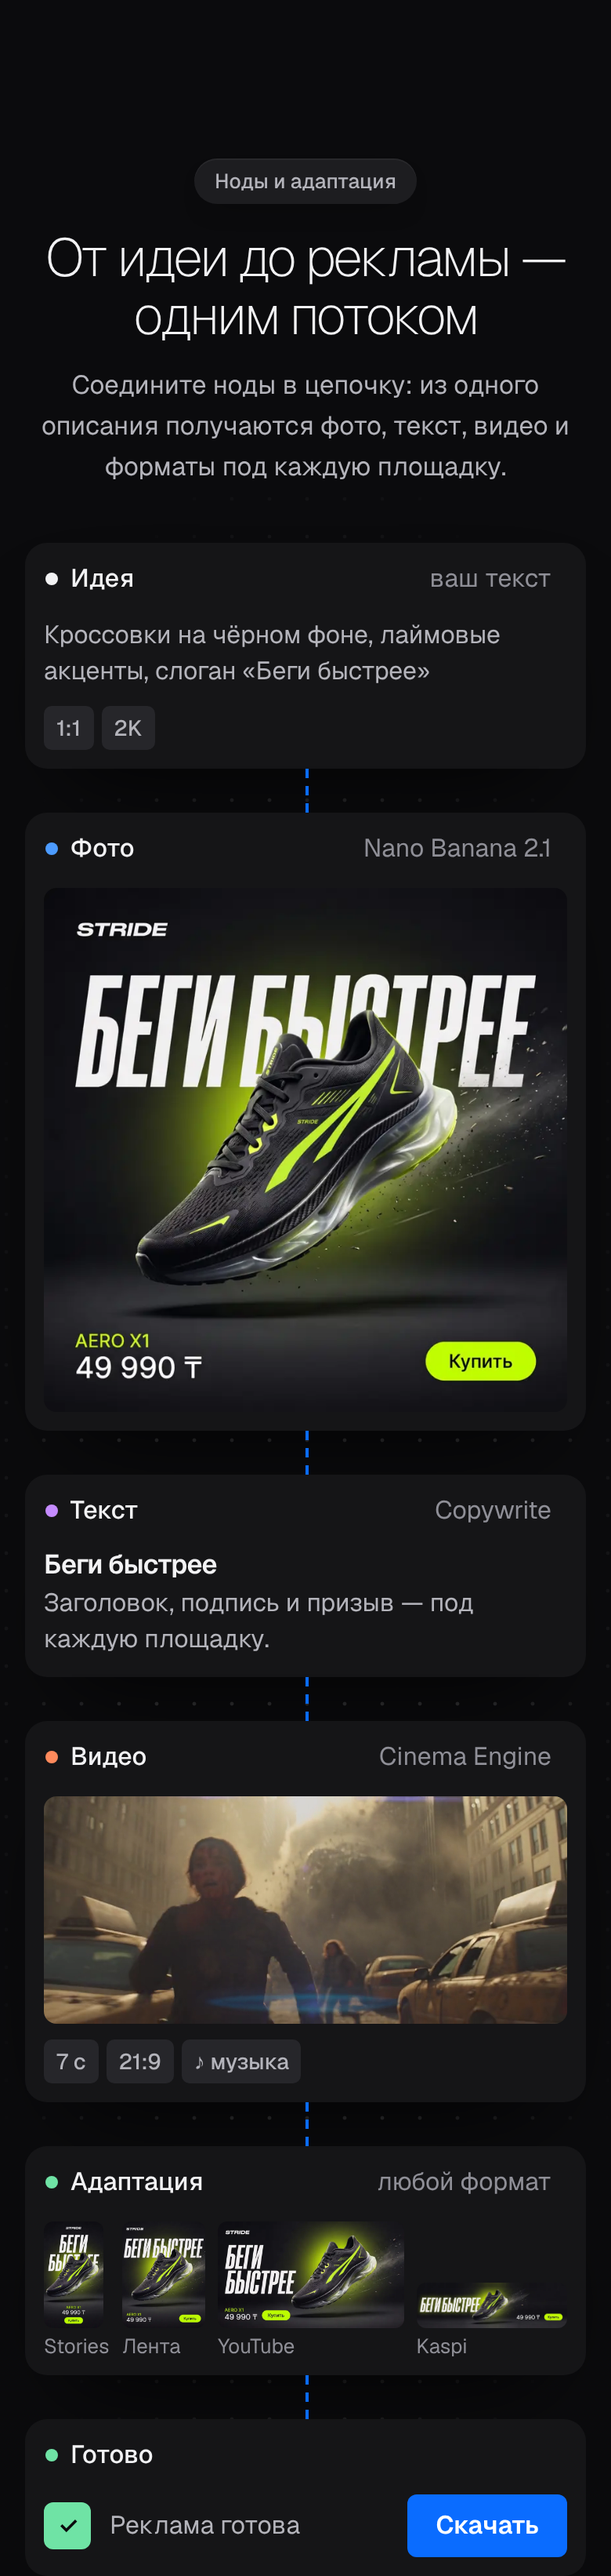
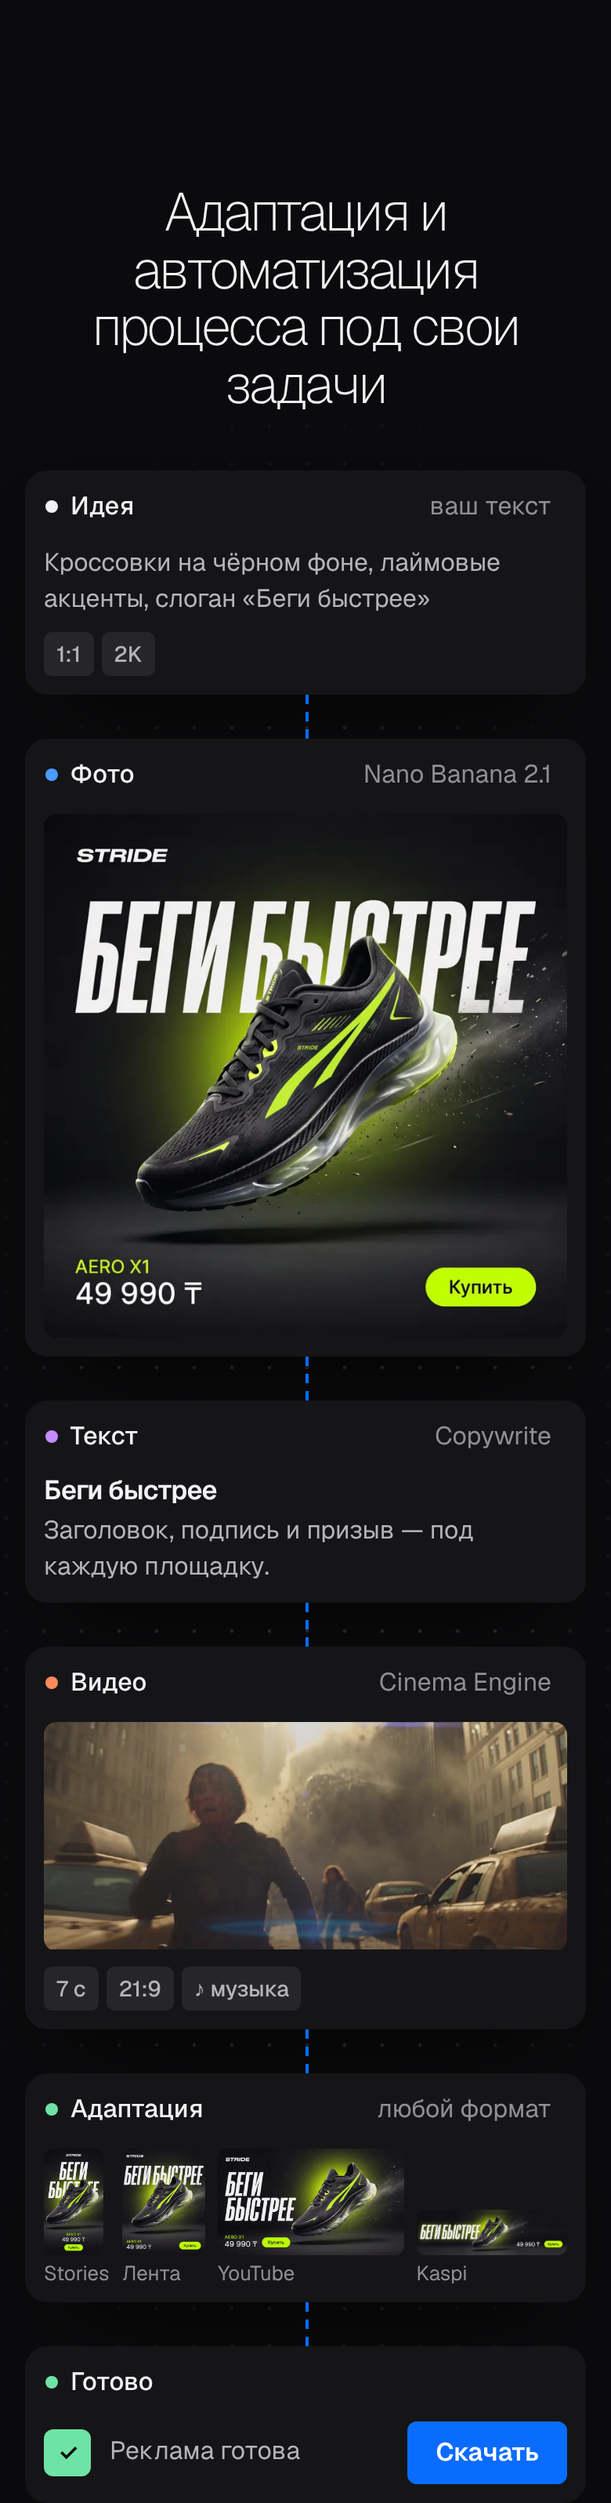
Hero draft: the node-flow section with one heading (v19.70)
Claude-Session: https://claude.ai/code/session_018a2KjtpEKLUTJU5P3jAt1D

diff --git a/landing/hero_draft/patch_flow_section.py b/landing/hero_draft/patch_flow_section.py
@@ -36,7 +36,7 @@ def node(cls, color, title, model, body):
 def section(lang):
     t = T[lang]
     pe = f'/pe/{lang}'
-    return (f'<section class="sec flow" id="flow"><div class="wrap"><div class="sh rv"><span class="k">{t["k"]}</span><h2>{t["h"]}</h2><p>{t["p"]}</p></div>'
+    return (f'<section class="sec flow" id="flow"><div class="wrap"><div class="sh rv"><h2>{t["p"]}</h2></div>'
             f'<div class="fl-fit rv" role="img" aria-label="{t["aria"]}"><div class="fl-stage">{SVG}'
             + node('n-idea', 'var(--ink)', t['idea'][0], t['idea'][1], f'<p>{t["idea"][2]}</p><div class="fl-tags"><em>1:1</em><em>2K</em></div>')
             + node('n-photo', '#4c9bff', t['photo'], 'Nano Banana 2.1', f'<img src="{pe}/ad-11.webp" alt="" loading="lazy">')
